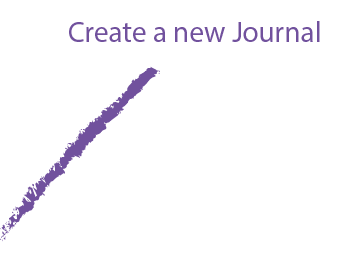
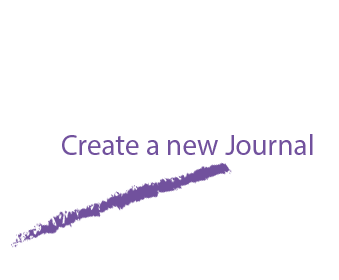
UI update + small fix (delete css when deleting journal)

Changed region(s): [[0.0, 0.2286, 0.944, 0.8857], [0.2065, 0.0571, 0.944, 0.1714]]

diff --git a/src/main/java/MainWindow.kt b/src/main/java/MainWindow.kt
@@ -3,6 +3,7 @@ import javafx.geometry.Pos
 import javafx.scene.Parent
 import javafx.scene.Scene
 import javafx.scene.control.*
+import javafx.scene.image.Image
 import javafx.scene.layout.BorderPane
 import javafx.scene.layout.HBox
 import javafx.scene.web.WebView
@@ -75,12 +76,17 @@ class MainWindow : Application() {
             selectedItem?.let {
                 Alert(Alert.AlertType.CONFIRMATION, "Deleting ${selectedItem.value.name}...\nReally?", ButtonType.YES, ButtonType.CANCEL).showAndWait()?.let {
                     if (it.get() == ButtonType.YES) {
+                        currentJournal = JournalFile("")
                         dataHandler.archive(selectedItem.value)
                         if (selectedItem.value == currentJournal) {
                             contentArea.engine.load(startPageURL)
+                            contentArea.engine.history.entries.clear()
                         }
                         selectedItem.value.delete()
+                        System.gc()                     // what ?!
+                        File("${selectedItem.value.absolutePath}.css").delete()
                         contentsTree.update()
+                        contentArea.engine.load(startPageURL)
                     }
                 }
             }
@@ -105,6 +111,7 @@ class MainWindow : Application() {
     override fun start(primaryStage: Stage) {
         primaryStage.scene = Scene(build(), 1280.0, 720.0)
         primaryStage.title = dataHandler.rootDir.name
+        primaryStage.icons.add(Image("file:${DataHandler.assetsDir}"))
         primaryStage.show()
         dataHandler.registerWatcher(this@MainWindow)
     }

diff --git a/src/main/java/DataHandler.kt b/src/main/java/DataHandler.kt
@@ -11,6 +11,7 @@ data class DataHandler(val rootDir: File,
                        private val defaultStyle: File = File("${rootDir.absolutePath}${File.separatorChar}${defaultJournal.name}.css")) {
     companion object {
         const val archiveDirName = ".archive"
+        val assetsDir = File("src${File.separatorChar}assets${File.separatorChar}appIcon.png")
     }
 
     private enum class Placeholder {

diff --git a/src/assets/startPage/startPage.html b/src/assets/startPage/startPage.html
@@ -1,5 +1,15 @@
 <style type="text/css">
-img {
+
+.center {
+    display: block;
+    margin: 0 auto;
+    height: 80%;
+    width: auto;
+    padding: 10%;
+    padding-top: 5%;
+}
+
+.lower {
     display: block;
     margin: 0 auto;
 
@@ -9,4 +19,5 @@ img {
     left: 16px;
 }
 </style>
-<img src="intro.png">
+<img class="center" src="fancyPhoto.png">
+<img class="lower" src="intro.png">
